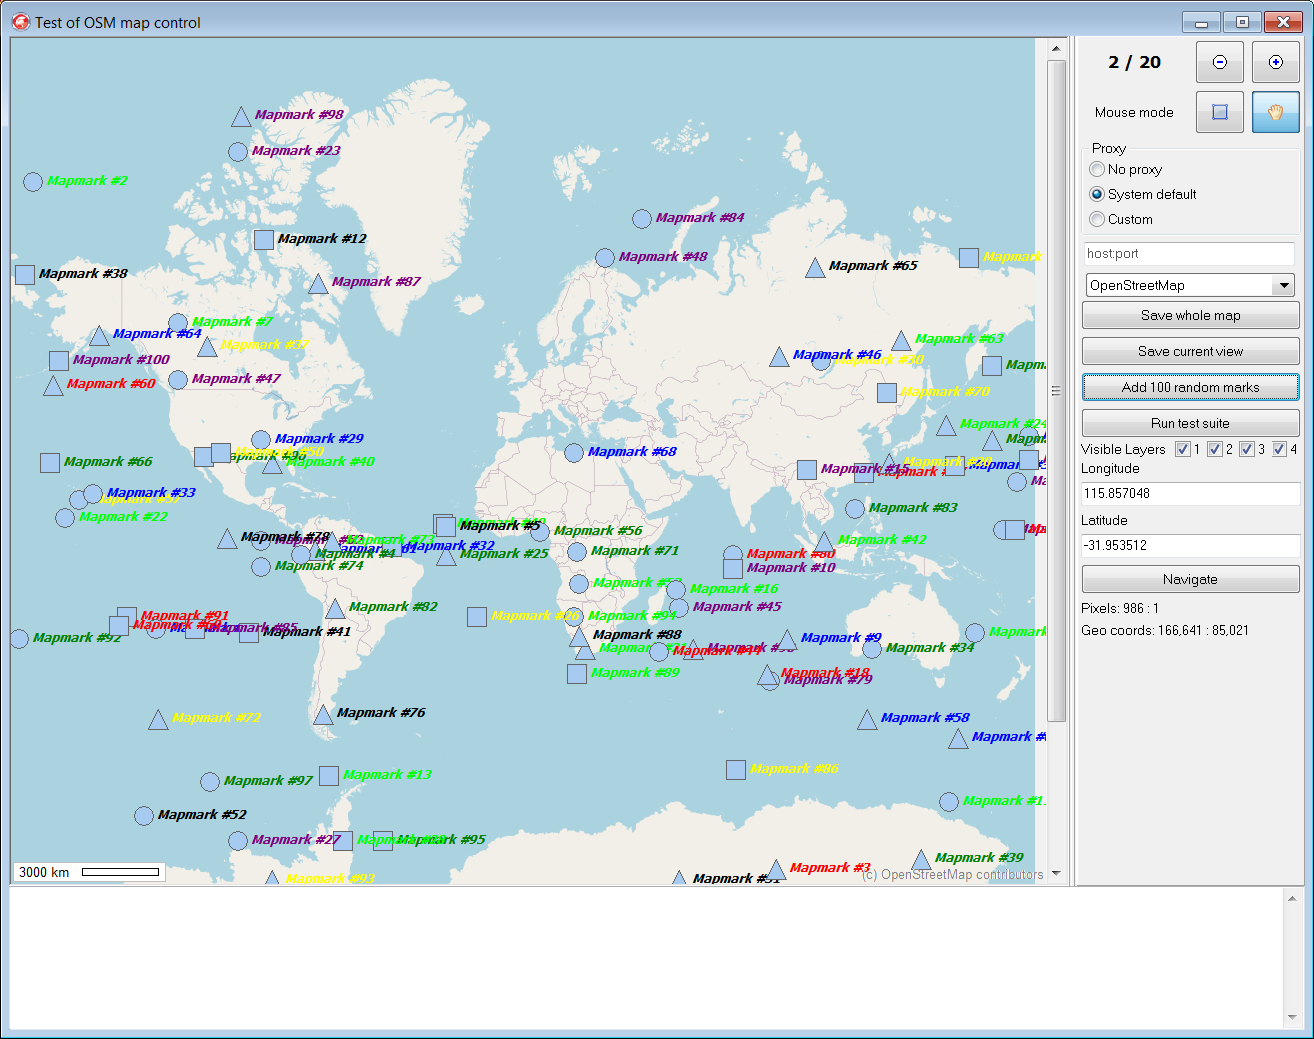
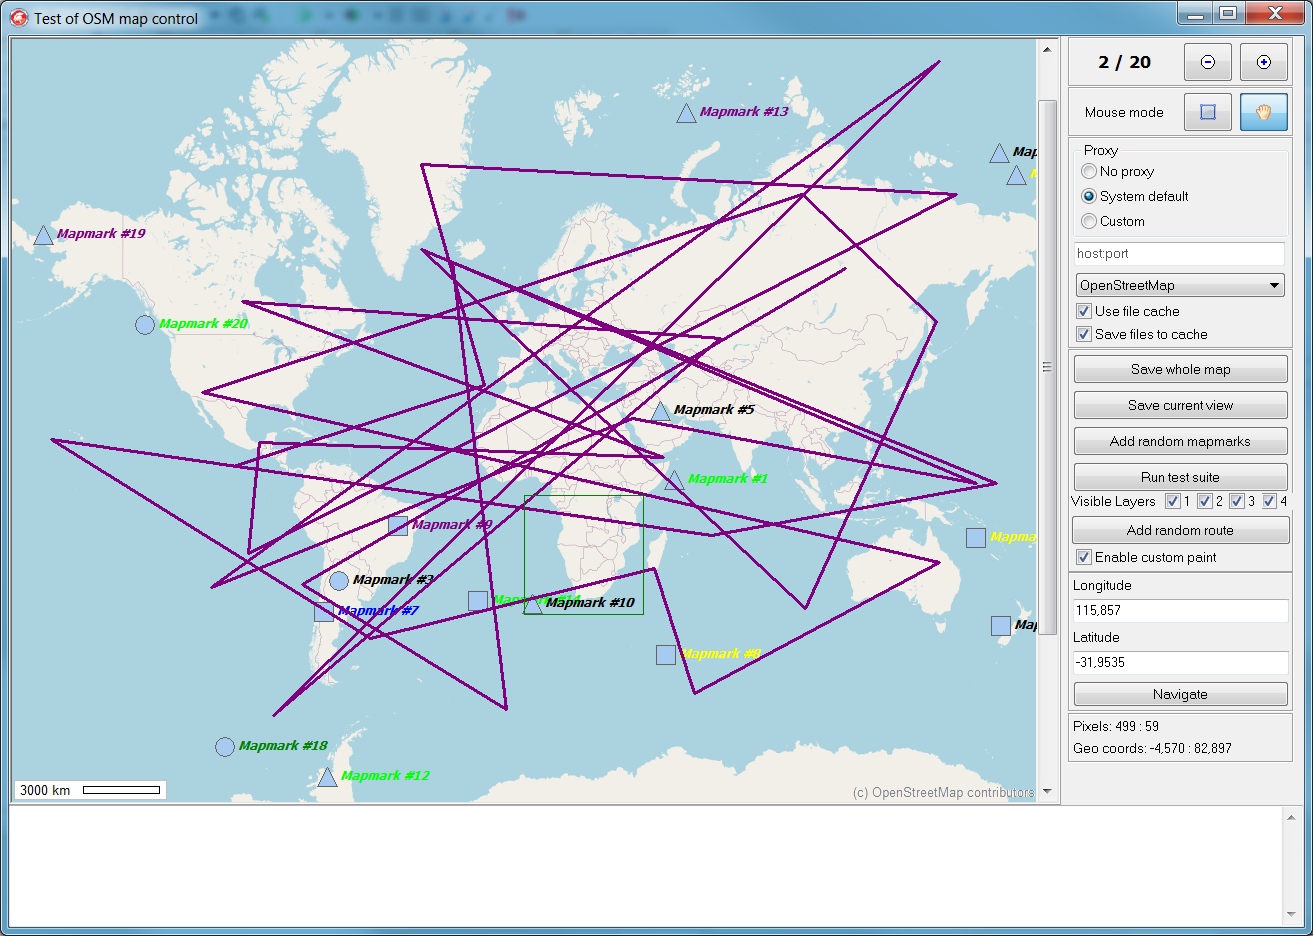
v.0.11.1

diff --git a/CHANGELOG.md b/CHANGELOG.md
@@ -1,17 +1,38 @@
+0.11.1
+======
+
+`Added`
+
+- OSM.MapControl.pas: Track now could be assigned to a layer. TTrack.Layer added
+- OSM.MapControl.pas: TMapControl.MapToCanvas, CanvasToMap methods that consider ClipRect differences in Delphi & Lazarus as the only point of converting map coords to canvas coords. 
+- OSM.MapControl.pas: TMapControl.OnPaint - Callback to custom draw whole map view
+- Demo: demo of custom painting
+
+`Changed`
+
+- OSM.MapControl.pas: TMapControl.MapToInner, InnerToMap moved to protected section (required only internally)
+- Demo: Fully tested with Lazarus on Windows
+
+`Fixed`
+
+- OSM.MapControl.pas: tracks drawing now doesn't use custom clipping - fixed issues on large zoom levels
+- OSM.MapControl.pas: TMapMarkList.Add, fix addition to empty list
+- OSM.MapControl.pas: TMapControl.DrawLabels, fix scale label positioning bug
+
 0.11.0
 ======
 
 `Added`
 
 - OSM.MapControl.pas: Add long-awaited feature to add and paint tracks! Use them via TMapControl.Tracks
-- OSM.MapControl.pas, TMapMarkGlyphStyle.Opacity
-- OSM.MapControl.pas, TMapControl.OnDrawMapMarkGlyph to custom draw glyph only
-- OSM.MapControl.pas, Triangle, RectByCenterAndSize functions made public
-- OSM.MapControl.pas, TMapControl.DrawMapMark, supports opacity and custom drawing for glyphs. However, simple Canvas.Draw(Bitmap, Opacity) didn't work. Needs additional manipulations
+- OSM.MapControl.pas: TMapMarkGlyphStyle.Opacity
+- OSM.MapControl.pas: TMapControl.OnDrawMapMarkGlyph to custom draw glyph only
+- OSM.MapControl.pas: Triangle, RectByCenterAndSize functions made public
+- OSM.MapControl.pas: TMapControl.DrawMapMark, supports opacity and custom drawing for glyphs. However, simple Canvas.Draw(Bitmap, Opacity) didn't work. Needs additional manipulations
 
 `Changed`
 
-- Source/OSM.SlippyMapUtils.pas: CheckValid* raise exceptions on invalid values so will do all functions using these checks
+- OSM.SlippyMapUtils.pas: CheckValid* raise exceptions on invalid values so will do all functions using these checks
 
 `Fixed`
 
@@ -39,13 +60,13 @@
 
 `Added`
 
-- OSM.MapControl.pas, TMapMarkCaptionStyle.Visible to control display of the caption
-- OSM.MapControl.pas, TMapMarkList gets upgrades: enumerator to use in for-in loops, Find(Pointer) to search by .Data field, Delete(Integer) to remove item by index, default Items property to get rid of writing Get().
-- OSM.MapControl.pas, TMapMarkList.Find(TPoint), overload that allows considering glyph size with mfoConsiderGlyphSize option set
-- OSM.MapControl.pas, TMapMarkFindOptions, mfoOnlyVisible option to allow skipping invisible marks. Method calls TMapControl.MapMarkVisible to determine effective visibility considering not only Visible flag but also visibility of mapmark layer.
-- OSM.MapControl.pas, TMapControl.MapMarkAtPos method to find topmost visible mapmark at given pixel coords.
+- OSM.MapControl.pas: TMapMarkCaptionStyle.Visible to control display of the caption
+- OSM.MapControl.pas: TMapMarkList gets upgrades: enumerator to use in for-in loops, Find(Pointer) to search by .Data field, Delete(Integer) to remove item by index, default Items property to get rid of writing Get().
+- OSM.MapControl.pas: TMapMarkList.Find(TPoint), overload that allows considering glyph size with mfoConsiderGlyphSize option set
+- OSM.MapControl.pas: TMapMarkFindOptions, mfoOnlyVisible option to allow skipping invisible marks. Method calls TMapControl.MapMarkVisible to determine effective visibility considering not only Visible flag but also visibility of mapmark layer.
+- OSM.MapControl.pas: TMapControl.MapMarkAtPos method to find topmost visible mapmark at given pixel coords.
 - OSM.MapControl.pas: TMapControl.MapMarkVisible - Returns mapmark visibility based on mapmark's own property and also on currently selected visible layers of the map. TMapMarkList.Find methods all use this method.
-- OSM.MapControl.pas, TOnSelectionBox now is called on every selection box change to reflect changes on-the-fly. Added parameter "Finished"
+- OSM.MapControl.pas: TOnSelectionBox now is called on every selection box change to reflect changes on-the-fly. Added parameter "Finished"
 - OSM.MapControl.pas: TMapControl.OnMapMarkMouse(Down|Up) events
 - OSM.MapControl.pas: TMapControl.SelectionShiftState, DragShiftState properties that set combination to enter selection/dragging state on mouse down. Assigning these properties removes necessity of handling MouseDown event just for changing map state
 - OSM.MapControl.pas: ShiftStateIs function for correct comparison of shift states (to use in MouseUp|Move|Down event handlers)
@@ -54,7 +75,7 @@
 
 - OSM.SlippyMapUtils.pas: EnsureInMap, ensures negative coords as well
 - OSM.MapControl.pas: TMapControl.SetZoom, cancels selection/dragging
-- OSM.NetworkRequest.pas, request props are cloned and assigned to every TNetworkRequestThread in its c-tor to avoid multithread access issues.
+- OSM.NetworkRequest.pas: request props are cloned and assigned to every TNetworkRequestThread in its c-tor to avoid multithread access issues.
 
 `Fixed`
 
@@ -68,7 +89,7 @@
 
 - Major redesign of NetworkRequest. Reuse connections to speedup downloads and reduce server load. Engine capabilities are checked against request details. API changes for implementations of NetworkRequest only, no changes visible to end-user.
 
-- OSM.NetworkRequest.pas, TBlockingNetworkRequestFunc => TBlockingNetworkRequestProc, must raise exception on error thus removing excess ErrMsg and result flag; add Client parameter. API changes for implementations of NetworkRequest only, no changes visible to end-user.
+- OSM.NetworkRequest.pas: TBlockingNetworkRequestFunc => TBlockingNetworkRequestProc, must raise exception on error thus removing excess ErrMsg and result flag; add Client parameter. API changes for implementations of NetworkRequest only, no changes visible to end-user.
 
   **End-user code required changes**: none except for custom implementations of NetworkRequest. For those:
   
@@ -79,9 +100,9 @@
 
 `Added`
 
-- OSM.NetworkRequest.Synapse.pas, to use SSL, define `SynapseSSL` in project options.
+- OSM.NetworkRequest.Synapse.pas: to use SSL, define `SynapseSSL` in project options.
 - Updated Synapse to the last release version with original file structure. Added SSL libs from Synapse site (untested!)
-- OSM.NetworkRequest.Synapse.pas, supports System proxy
+- OSM.NetworkRequest.Synapse.pas: supports System proxy
 
 0.9.3
 =====
@@ -91,7 +112,7 @@
 `Added`
 
 - OpenTopoMap tile provider
-- OSM.TilesProvider.*.pas, use new template-base system for retrieval of tile URL
+- OSM.TilesProvider.*.pas: use new template-base system for retrieval of tile URL
 
 0.9.2
 =====
@@ -106,8 +127,8 @@
 
 `Fixed`
 
-- OSM.TileStorage.pas, `TTileStorage`, clear cache on file path change
-- OSM.MapControl.pas, `TMapControl`, fixes to change tiles provider properly
+- OSM.TileStorage.pas: `TTileStorage`, clear cache on file path change
+- OSM.MapControl.pas: `TMapControl`, fixes to change tiles provider properly
 
 0.9.1
 =====
@@ -125,8 +146,8 @@
 
 `[BREAKING]`
 
-- OSM.NetworkRequest.pas, uses `TileProvider` object. `TNetworkRequestQueue.Create`, 3rd parameter is `TTilesProvider` and `GotTile` callback must be set via `OnGotTileBgThr` property
-- OSM.MapControl.pas, uses `TileProvider` object. New `TMapControl.TilesProvider` property
+- OSM.NetworkRequest.pas: uses `TileProvider` object. `TNetworkRequestQueue.Create`, 3rd parameter is `TTilesProvider` and `GotTile` callback must be set via `OnGotTileBgThr` property
+- OSM.MapControl.pas: uses `TileProvider` object. New `TMapControl.TilesProvider` property
 
 0.8.0
 =====
@@ -151,7 +172,7 @@
 
 `Added`
 
-- OSM.SlippyMapUtils.pas, add `ToTileHeightGreater`, `ToTileHeightLesser`, `ToTileWidthGreater`, `ToTileWidthLesser`, `ToTileBoundary` functions
+- OSM.SlippyMapUtils.pas: add `ToTileHeightGreater`, `ToTileHeightLesser`, `ToTileWidthGreater`, `ToTileWidthLesser`, `ToTileBoundary` functions
 - Network requester allows to set current viewport of a map by `TNetworkRequestQueue.SetCurrentViewRect` method so that extraction of queued tiles first looks for those in this area. This removed time lag before current view area is fully downloaded and shown. `TNetworkRequestQueue.DumbQueueOrder` property set to `True` returns old behavior
 
 `Changed`

diff --git a/README.md b/README.md
@@ -6,6 +6,16 @@ Demo project implements downloading map tiles from network.
 
 :exclamation: **Alpha version, interface could change** :exclamation:
 
+Features
+--------
+
+- Multiple tile providers
+- Multiple network request engines
+- Layers to control visibility easily
+- Customizable map marks
+- Customizable routes (called tracks)
+- Custom paint on the view area (allows drawing any regions, shapes, images etc)
+
 Compatibility
 -------------
 
@@ -39,6 +49,10 @@ Third party
 
 If you wish to use **Synapse** network engine and don't have it yet, you can take it from **Releases** section.
 
+Screen shows Demo app built with Delphi and running on Windows using OSM tiles with random map marks, random track and square painted from callback.
+
 ![screen1](https://raw.githubusercontent.com/Fr0sT-Brutal/Delphi_OSMMap/master/Screen/screen1.png)
+
+Screen shows Demo app built with Delphi and running on Windows using Google tiles
 
 ![screen2](https://raw.githubusercontent.com/Fr0sT-Brutal/Delphi_OSMMap/master/Screen/screen2.png)
